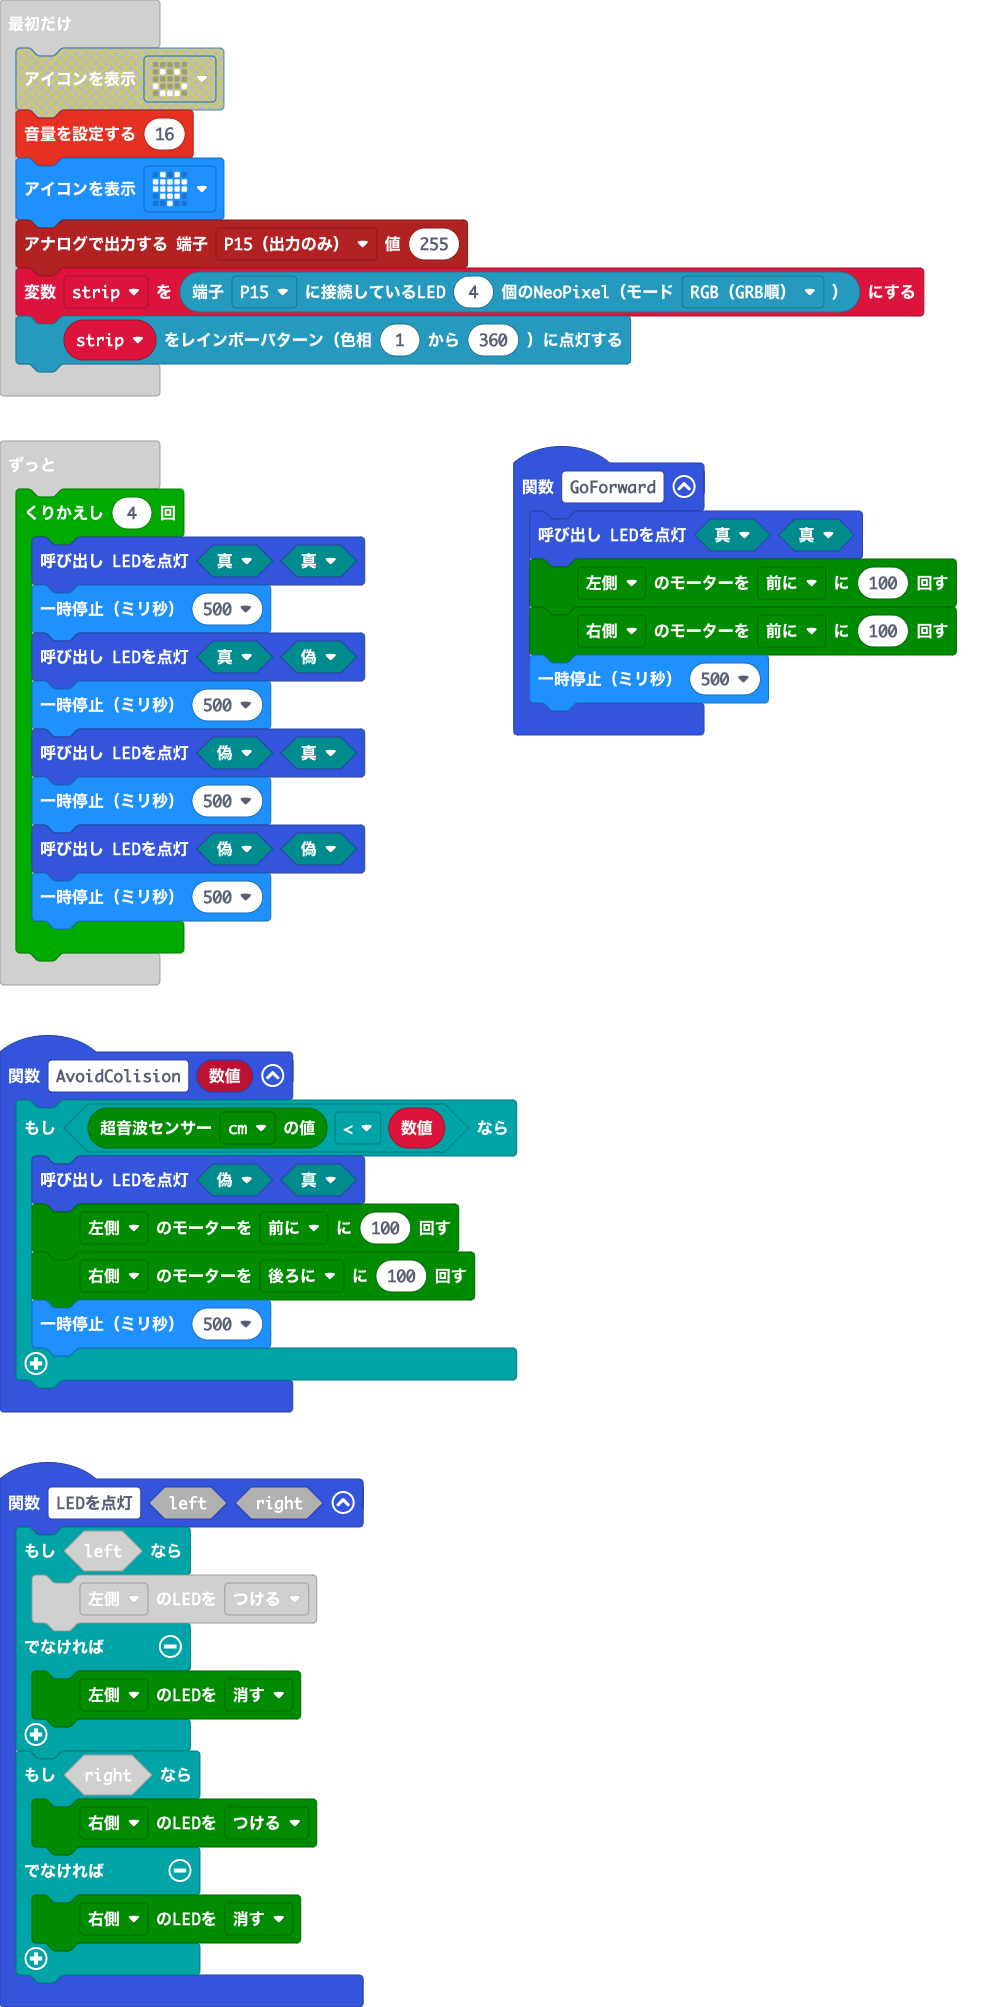
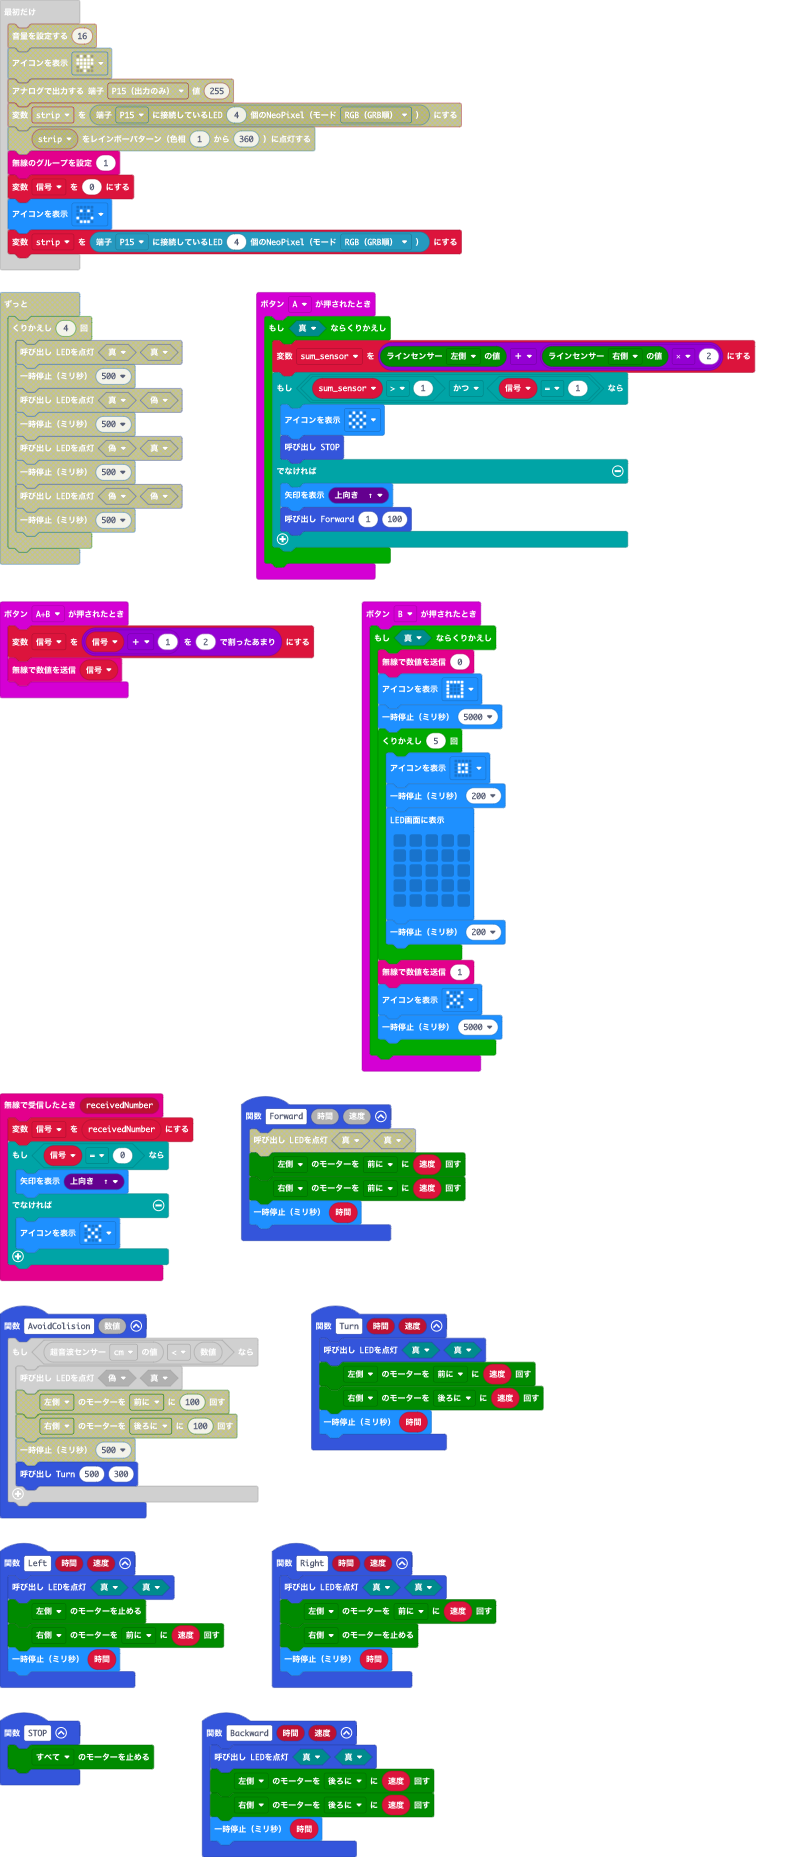
Signal controled car

diff --git a/main.ts b/main.ts
@@ -1,8 +1,21 @@
-function GoForward () {
+function Left (時間: number, 速度: number) {
     LEDを点灯(true, true)
-    maqueen.motorRun(maqueen.Motors.M1, maqueen.Dir.CW, 100)
-    maqueen.motorRun(maqueen.Motors.M2, maqueen.Dir.CW, 100)
-    basic.pause(500)
+    maqueen.motorStop(maqueen.Motors.M1)
+    maqueen.motorRun(maqueen.Motors.M2, maqueen.Dir.CW, 速度)
+    basic.pause(時間)
+}
+radio.onReceivedNumber(function (receivedNumber) {
+    信号 = receivedNumber
+    if (信号 == 0) {
+        basic.showArrow(ArrowNames.North)
+    } else {
+        basic.showIcon(IconNames.No)
+    }
+})
+function Forward (時間: number, 速度: number) {
+    maqueen.motorRun(maqueen.Motors.M1, maqueen.Dir.CW, 速度)
+    maqueen.motorRun(maqueen.Motors.M2, maqueen.Dir.CW, 速度)
+    basic.pause(時間)
 }
 function LEDを点灯 (left: boolean, right: boolean) {
     if (left) {
@@ -16,28 +29,74 @@ function LEDを点灯 (left: boolean, right: boolean) {
         maqueen.writeLED(maqueen.LED.LEDRight, maqueen.LEDswitch.turnOff)
     }
 }
+input.onButtonPressed(Button.A, function () {
+    while (true) {
+        sum_sensor = maqueen.readPatrol(maqueen.Patrol.PatrolLeft) + maqueen.readPatrol(maqueen.Patrol.PatrolRight) * 2
+        if (sum_sensor > 1 && 信号 == 1) {
+            basic.showIcon(IconNames.Chessboard)
+            STOP()
+        } else {
+            basic.showArrow(ArrowNames.North)
+            Forward(1, 100)
+        }
+    }
+})
+function Turn (時間: number, 速度: number) {
+    LEDを点灯(true, true)
+    maqueen.motorRun(maqueen.Motors.M1, maqueen.Dir.CW, 速度)
+    maqueen.motorRun(maqueen.Motors.M2, maqueen.Dir.CCW, 速度)
+    basic.pause(時間)
+}
+function STOP () {
+    maqueen.motorStop(maqueen.Motors.All)
+}
+input.onButtonPressed(Button.AB, function () {
+    信号 = (信号 + 1) % 2
+    radio.sendNumber(信号)
+})
+input.onButtonPressed(Button.B, function () {
+    while (true) {
+        radio.sendNumber(0)
+        basic.showIcon(IconNames.Square)
+        basic.pause(5000)
+        for (let index = 0; index < 5; index++) {
+            basic.showIcon(IconNames.SmallSquare)
+            basic.pause(200)
+            basic.showLeds(`
+                . . . . .
+                . . . . .
+                . . . . .
+                . . . . .
+                . . . . .
+                `)
+            basic.pause(200)
+        }
+        radio.sendNumber(1)
+        basic.showIcon(IconNames.No)
+        basic.pause(5000)
+    }
+})
 function AvoidColision (数値: number) {
     if (maqueen.Ultrasonic(PingUnit.Centimeters) < 数値) {
         LEDを点灯(false, true)
-        maqueen.motorRun(maqueen.Motors.M1, maqueen.Dir.CW, 100)
-        maqueen.motorRun(maqueen.Motors.M2, maqueen.Dir.CCW, 100)
-        basic.pause(500)
+        Turn(500, 300)
     }
 }
-music.setVolume(16)
-basic.showIcon(IconNames.Heart)
-pins.analogWritePin(AnalogPin.P15, 255)
+function Right (時間: number, 速度: number) {
+    LEDを点灯(true, true)
+    maqueen.motorRun(maqueen.Motors.M1, maqueen.Dir.CW, 速度)
+    maqueen.motorStop(maqueen.Motors.M2)
+    basic.pause(時間)
+}
+function Backward (時間: number, 速度: number) {
+    LEDを点灯(true, true)
+    maqueen.motorRun(maqueen.Motors.M1, maqueen.Dir.CCW, 速度)
+    maqueen.motorRun(maqueen.Motors.M2, maqueen.Dir.CCW, 速度)
+    basic.pause(時間)
+}
+let sum_sensor = 0
+let 信号 = 0
+radio.setGroup(1)
+信号 = 0
+basic.showIcon(IconNames.Happy)
 let strip = neopixel.create(DigitalPin.P15, 4, NeoPixelMode.RGB)
-strip.showRainbow(1, 360)
-basic.forever(function () {
-    for (let index = 0; index < 4; index++) {
-        LEDを点灯(true, true)
-        basic.pause(500)
-        LEDを点灯(true, false)
-        basic.pause(500)
-        LEDを点灯(false, true)
-        basic.pause(500)
-        LEDを点灯(false, false)
-        basic.pause(500)
-    }
-})
